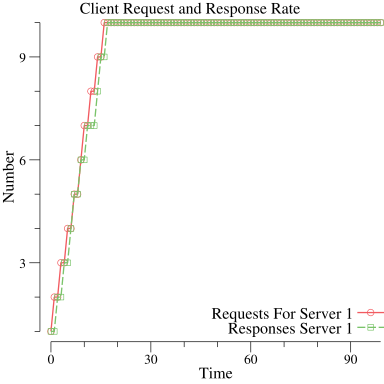
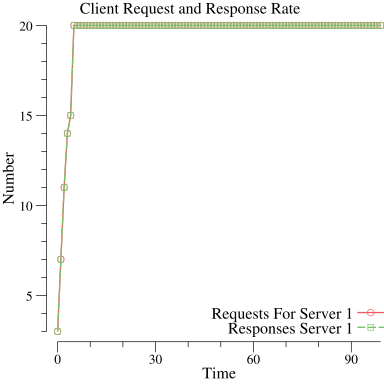
Fixed Load Balancing Algorithm

diff --git a/server.js b/server.js
@@ -1,9 +1,11 @@
 var http=require('http');
-var ports = [9000,9100];
+var ports = [];
 
-for(var i = 1; i < 12; i++) {
+for(var i = 0; i < 6; i++) {
  ports.push(9000+i)
  ports.push(9100+i)
+ ports.push(9010+i)
+ ports.push(9110+i)
 }
 
 var servers = [];

diff --git a/loadbalancer.go b/loadbalancer.go
@@ -147,8 +147,8 @@ func(lb *LoadBalancer) ServeRequestsRR(){
 func(lb *LoadBalancer) UpdateLoadMatrix(){
     var data jsonMessage
 	for {
-		lb.curLoad1 = rand.Intn(10)
-		lb.curLoad2 = rand.Intn(10)
+		//lb.curLoad1 = rand.Intn(10)
+		//lb.curLoad2 = rand.Intn(10)
 		/*Have to Send*/
 		time.Sleep(time.Second)
 
@@ -302,32 +302,38 @@ func main() {
 		var port int
 		suffix:=""
 		if strings.HasPrefix(req.URL.Path, "/server1/") {
-				fmt.Println("Calling Load Matix for curLoad1_other")
+				lb.curLoad1++
+				
 				sendToLB := lb.whereToSend(&lb.curLoad1_other,10)
+
 				if  lb.id != sendToLB{/*To others*/
+					fmt.Println("Calling Load Matix for curLoad1_other")
 					port = 8000 + sendToLB
 					suffix = "/server1/"
 					lb.curLoad1_other[sendToLB]++
 				}else{
 					fmt.Println("Calling Load Matix for lb.load1")
 					sendToServer:= lb.whereToSend(&lb.load1,lb.numServers)
-					port = 9000 + 10*lb.id + sendToLB
+					port = 9000 + 10*lb.id + sendToServer
 					lb.load1[sendToServer]++
 					lb.curLoad1++
 				}
 		}
 
 		if strings.HasPrefix(req.URL.Path, "/server2/") {
-				fmt.Println("Calling Load Matix for curLoad2_other")
+				lb.curLoad2++
+				
 				sendToLB := lb.whereToSend(&lb.curLoad2_other,10)
+
 				if  lb.id != sendToLB{/*To others*/
+					fmt.Println("Calling Load Matix for curLoad2_other")
 					port = 8000 + sendToLB
 					suffix = "/server2/"
 					lb.curLoad2_other[sendToLB]++
 				}else{
 					fmt.Println("Calling Load Matix for lb.load2")
 					sendToServer := lb.whereToSend(&lb.load2,lb.numServers)
-					port = 9100 + 10*lb.id + sendToLB
+					port = 9100 + 10*lb.id + sendToServer		
 					lb.load2[sendToServer]++
 					lb.curLoad2++
 				}
@@ -351,27 +357,32 @@ func main() {
 
 func(lb *LoadBalancer) whereToSend(val *[]int,n int) int{
 		sum:=0
+		count:=0
 		fmt.Println("Load Matrix is :",(*val))
 		for i:=0;i<n;i++{
 			if (*val)[i]!=-1{
 			 sum+=(*val)[i]
+			 count++
 			}
 		}
 
-		if sum==0{
+		if sum==0 {
 			return lb.id
 		}
+		sum2:=(count-1)*sum
 
-		r :=rand.Intn(sum)
+		r :=rand.Intn(sum2)
 		temp:=0
 		var i int
 		for i=0;i<n;i++{
+
 			if (*val)[i]!=-1{
-				temp= temp + (*val)[i]
+				temp= temp + (sum-(*val)[i])
 			}
 			if temp > r{
 				break
 			}	
 		}	
+		fmt.Println("Choosen id is :",i)
 		return i
 }

diff --git a/client.go b/client.go
@@ -27,8 +27,8 @@ var(
 ) 
 
 func temp(server string, count *int, n int) {
-        port_number := 8000 + n
 
+        port_number := 8000 + n
         transport := &http.Transport {
             Proxy: http.ProxyFromEnvironment,
             Dial: (&net.Dialer{Timeout: 0,KeepAlive: 0}).Dial,
@@ -85,7 +85,7 @@ func main() {
                 //to server1
                 runtime.GOMAXPROCS(runtime.NumCPU() + 5)
                 for i:=0;i<number;i++{
-                        go temp("server1", &reply_recv_server1[i], i%lb_id)
+                        temp("server1", &reply_recv_server1[i], i%lb_id)
                         req_sent_server1++
                 }
             case "3": 

diff --git a/temp.go b/temp.go
@@ -281,6 +281,7 @@ func(lb *LoadBalancer) whereToSend(val *[]int,n int) int{
 		temp:=0
 		var i int
 		for i=0;i<n;i++{
+			
 			if lb.load1[i]!=-1{
 				temp= temp + lb.load1[i]
 			}
